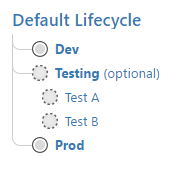
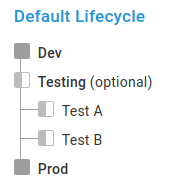
Add default lifecycle information and port+update images

Changed region(s): [[0.0543, 0.2035, 0.8424, 0.9302], [0.0543, 0.0291, 0.788, 0.1744]]

diff --git a/docs/releases/lifecycles/index.md b/docs/releases/lifecycles/index.md
@@ -12,6 +12,30 @@ Lifecycles enable a number of advanced deployment workflow features:
 - **Automate deployment to specific environments**: for example, automatically deploy to *test* as soon as a release is created.
 - **Retention policies**: specify the number of releases to keep depending on how far they have progressed through the lifecycle.
 
+## Default lifecycle {#default-lifecycle}
+
+Octopus creates a default lifecycle for you. To view it, navigate to **{{Library,Lifecycles}}**, and it will be in the list named **Default Lifecycle**:
+
+![Default Lifecycle Library view](images/default-lifecycle.png "width=500")
+
+The phases shown are created implicitly by the default lifecycle. By convention, the default lifecycle will create one phase per environment. They appear in the same order the environments are listed on the environments page. To view the default conventions applied, click on the lifecycle and the information appears in the **Phases** section :
+
+![Default Lifecycle Library view](images/default-lifecycle-default-conventions.png "width=500")
+
+### Updating the Default lifecycle
+
+The default lifecycle handles most cases for small or straight-forward configurations.
+
+When a new environment is added, it will automatically be included in the default lifecycle. This also means that if the environments are reordered, the order of the implicit phases will change in the default lifecycle. These conventions can sometimes be helpful, but other times it can lead to performance problems.
+
+:::hint
+Try to keep the number of environments in Octopus under ten. Having fewer environments keeps the number of phases in the default lifecyle low.
+:::
+
+We recommend updating the default lifecycle to define the phases you require. This helps to make configuring and maintaining your Octopus Server easier.
+
+In the next section, we look at what phases are and how they can be used to change the default lifecycle to have an explicit set of phases defined.
+
 ## Create a new lifecycle
 
 1. From the Lifecycle page, click on the **ADD LIFECYCLE** button.

diff --git a/docs/shared-content/releases/lifecycles.include.md b/docs/shared-content/releases/lifecycles.include.md
@@ -1,10 +1,9 @@
 <iframe width="560" height="315" src="https://www.youtube.com/embed/ofc-u61ukRA" frameborder="0" allow="accelerometer; autoplay; encrypted-media; gyroscope; picture-in-picture" allowfullscreen></iframe>
 
-Lifecycles give you control over the way releases of your software are promoted between your environments. 
+Lifecycles give you control over the way releases of your software are promoted between your environments. You can also use them to automate deployments and set retention policies.
 
 Lifecycles are managed from the library page by navigating to **{{Library,Lifecyles}}**:
 
 ![The lifecyles area of the Octopus Web Portal](/docs/shared-content/releases/images/lifecycles.png "width=500")
 
-Octopus automatically creates a default lifecycle for you that contains a phase for each environment that you've created in Octopus Deploy. When you deploy your software it passes through the phases of the lifecycle in order.
-
+Octopus automatically creates a [default lifecycle](/docs/releases/lifecycles/index.md#default-lifecycle) for you that contains a phase for each environment that you've created in Octopus Deploy. When you deploy your software it passes through the phases of the lifecycle in order.
